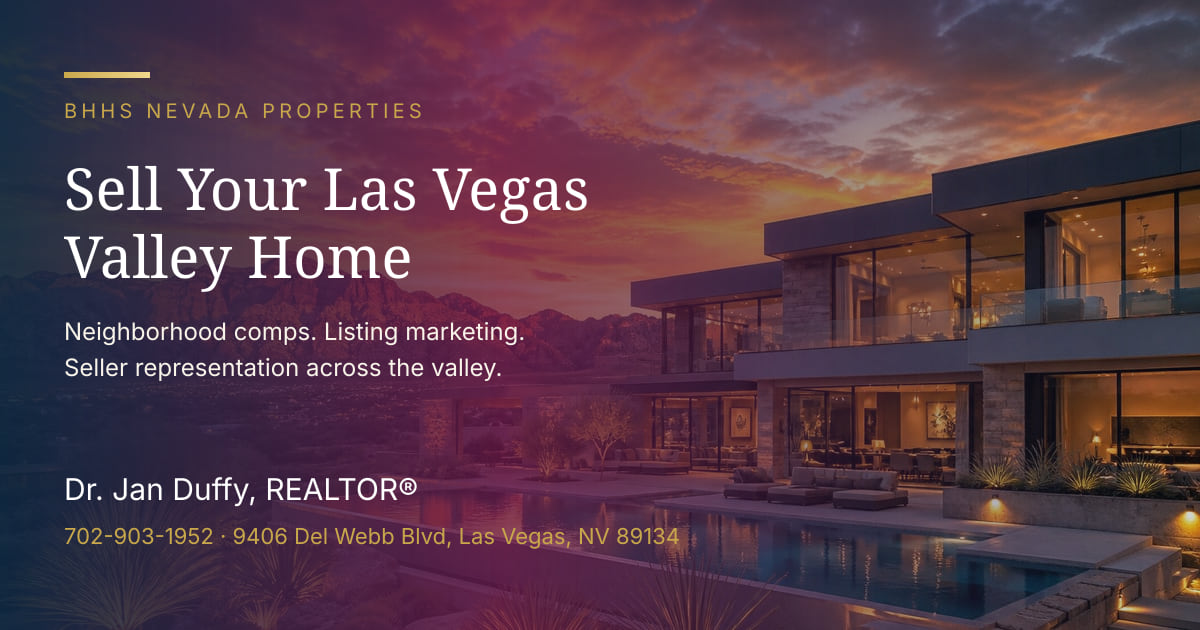
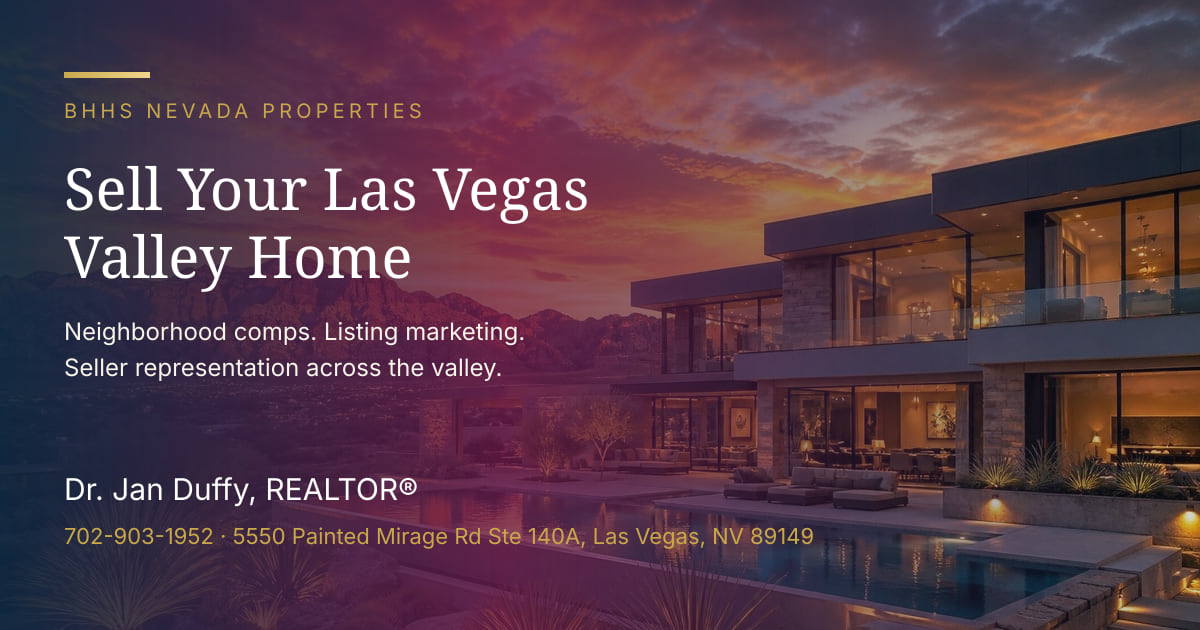
Update office NAP to 5550 Painted Mirage Rd Ste 140A.
Visible address, LocalBusiness schema, geo meta, map pin, directions links, and OG/Twitter overlays now use the Centennial Hills office. Phone stays 702-903-1952. Neighborhood ZIPs such as Sun City Summerlin 89134 are unchanged.

Changed region(s): [[0.185, 0.8143, 0.6783, 0.8746]]

diff --git a/src/config/agent.ts b/src/config/agent.ts
@@ -15,12 +15,17 @@ export const AGENT = {
   phoneTel: '+17029031952',
   email: 'DrJanDuffy@gmail.com',
   address: {
-    street: '9406 Del Webb Blvd',
+    street: '5550 Painted Mirage Rd Ste 140A',
     city: 'Las Vegas',
     state: 'NV',
-    zip: '89134',
+    zip: '89149',
     country: 'US',
-    full: '9406 Del Webb Blvd, Las Vegas, NV 89134',
+    full: '5550 Painted Mirage Rd Ste 140A, Las Vegas, NV 89149',
+  },
+  // OpenStreetMap Nominatim, building 5550 Painted Mirage Road (way 582155954), 2026-08-19
+  geo: {
+    latitude: 36.261827,
+    longitude: -115.254987,
   },
 
   // Hours — match GBP
@@ -35,8 +40,10 @@ export const AGENT = {
   calendly: 'https://calendly.com/drjanduffy/listing-consultation',
   realscoutAgentId: 'drjanduffy',
   googleReviews: 'https://g.page/r/CYmVqofF2JYBEAI/review',
+  mapsDirectionsUrl:
+    'https://maps.google.com/?q=5550+Painted+Mirage+Rd+Ste+140A,+Las+Vegas,+NV+89149',
   googleMapsEmbed:
-    'https://www.google.com/maps/embed?pb=!1m18!1m12!1m3!1d3219.0!2d-115.33!3d36.22!2m3!1f0!2f0!3f0!3m2!1i1024!2i768!4f13.1!3m3!1m2!1s0x0%3A0x0!2zMzbCsDEzJzEyLjAiTiAxMTXCsDE5JzQ4LjAiVw!5e0!3m2!1sen!2sus!4v1700000000000!5m2!1sen!2sus',
+    'https://www.google.com/maps?q=5550+Painted+Mirage+Rd+Ste+140A,+Las+Vegas,+NV+89149&output=embed',
 
   // Social
   social: {

diff --git a/src/app/layout.tsx b/src/app/layout.tsx
@@ -92,9 +92,9 @@ export async function generateMetadata(): Promise<Metadata> {
     },
     other: {
       'geo.region': 'US-NV',
-      'geo.placename': 'Las Vegas',
-      'geo.position': '36.22;-115.33',
-      ICBM: '36.22, -115.33',
+      'geo.placename': AGENT.address.city,
+      'geo.position': `${AGENT.geo.latitude};${AGENT.geo.longitude}`,
+      ICBM: `${AGENT.geo.latitude}, ${AGENT.geo.longitude}`,
       'og:image:alt': ogImage.alt,
       'twitter:image:alt': twitterImage.alt,
       'og:updated_time': contentUpdatedAt().toISOString(),

diff --git a/src/components/Footer.tsx b/src/components/Footer.tsx
@@ -122,7 +122,7 @@ export default function Footer({ config }: { config: DomainConfig }) {
                 Google Reviews
               </a>
               <a
-                href="https://maps.google.com/?q=9406+Del+Webb+Blvd+Las+Vegas+NV+89134"
+                href={AGENT.mapsDirectionsUrl}
                 target="_blank"
                 rel="noopener noreferrer"
                 className="btn-secondary text-sm px-4 py-2 text-center !text-primary-200 !border-primary-600 hover:!bg-primary-800"

diff --git a/src/config/domains.ts b/src/config/domains.ts
@@ -38,7 +38,7 @@ export const DEFAULT_CONFIG: DomainConfig = {
   neighborhood: 'Las Vegas Valley',
   city: 'Las Vegas',
   state: 'NV',
-  zip: '89134',
+  zip: '89149',
   description:
     'Sell your Las Vegas home with Dr. Jan Duffy, REALTOR® at Berkshire Hathaway HomeServices Nevada Properties. Neighborhood listing plans for Summerlin, Skye Canyon, Henderson, Centennial Hills, and every major valley community.',
   keywords: [

diff --git a/src/lib/pageMetadata.ts b/src/lib/pageMetadata.ts
@@ -60,8 +60,8 @@ export function buildPageMetadata({
     other: {
       'geo.region': 'US-NV',
       'geo.placename': AGENT.address.city,
-      'geo.position': '36.22;-115.33',
-      ICBM: '36.22, -115.33',
+      'geo.position': `${AGENT.geo.latitude};${AGENT.geo.longitude}`,
+      ICBM: `${AGENT.geo.latitude}, ${AGENT.geo.longitude}`,
       'og:image:alt': OG_IMAGE_ALT,
       'twitter:image:alt': OG_IMAGE_ALT,
     },

diff --git a/src/app/contact/page.tsx b/src/app/contact/page.tsx
@@ -131,7 +131,7 @@ export default async function ContactPage() {
 
               <div className="flex flex-col gap-3">
                 <a
-                  href="https://maps.google.com/?q=9406+Del+Webb+Blvd+Las+Vegas+NV+89134"
+                  href={AGENT.mapsDirectionsUrl}
                   target="_blank"
                   rel="noopener noreferrer"
                   className="btn-secondary text-center"

diff --git a/src/components/SchemaMarkup.tsx b/src/components/SchemaMarkup.tsx
@@ -73,8 +73,8 @@ export default async function SchemaMarkup({
     },
     geo: {
       '@type': 'GeoCoordinates',
-      latitude: 36.22,
-      longitude: -115.33,
+      latitude: AGENT.geo.latitude,
+      longitude: AGENT.geo.longitude,
     },
     openingHoursSpecification: [
       {

diff --git a/README.md b/README.md
@@ -43,7 +43,7 @@ Must match Google Business Profile:
 
 - Dr. Jan Duffy
 - Berkshire Hathaway HomeServices Nevada Properties
-- 9406 Del Webb Blvd, Las Vegas, NV 89134
+- 5550 Painted Mirage Rd Ste 140A, Las Vegas, NV 89149
 - 702-903-1952
 
 JSON-LD `RealEstateAgent` + `LocalBusiness` is on every page. FAQ schema is on seller FAQs.
